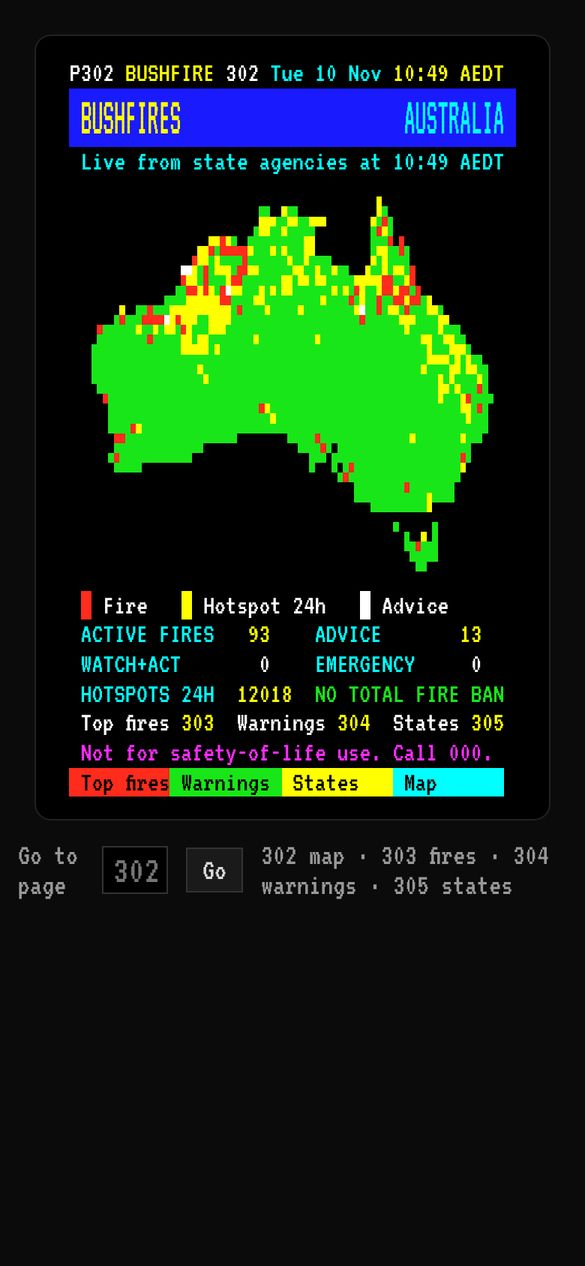
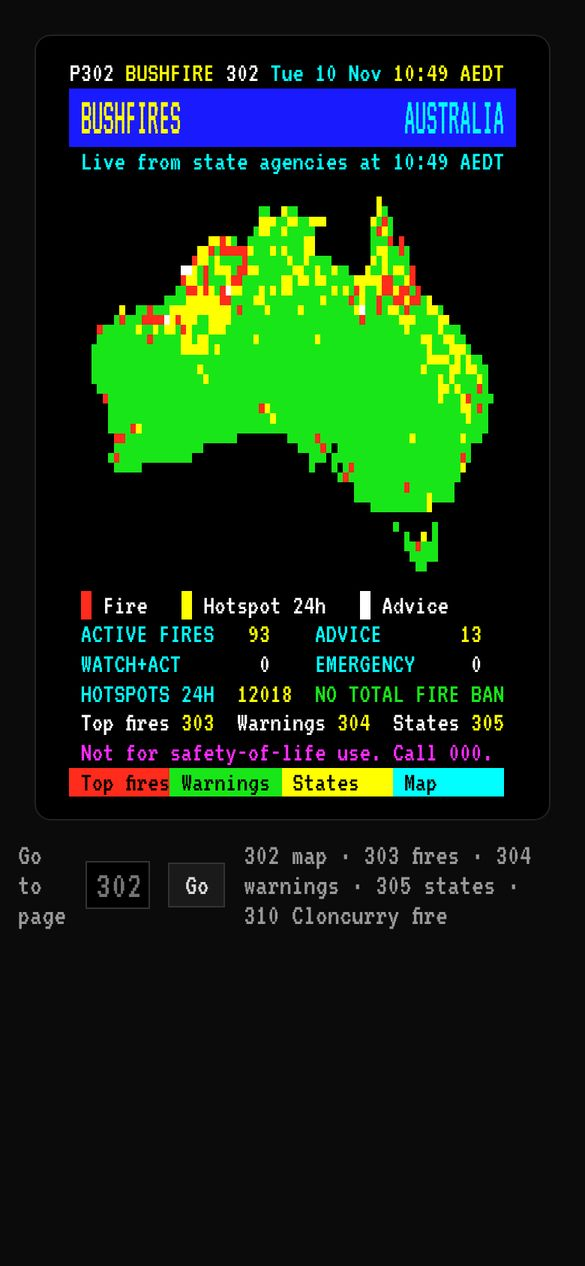
Design options: overview shows fire pages; refreshed screenshots and README
Claude-Session: https://claude.ai/code/session_01LusRAfVREdsNW6RjpzuqHr

Changed region(s): [[0.1538, 0.6469, 0.9231, 0.7393], [0.0308, 0.6469, 0.1231, 0.7393]]

diff --git a/design-options/index.html b/design-options/index.html
@@ -65,6 +65,8 @@ td a { font-weight: 600; }
 .opt-hd h2 { margin: 0; font: 600 clamp(26px, 3vw, 34px)/1.1 var(--serif); letter-spacing: -.01em; }
 .opt-hd .tags { display: flex; gap: 6px; flex-wrap: wrap; }
 .opt-hd .open { margin-left: auto; font-weight: 700; white-space: nowrap; }
+.opt-hd .open a { font-weight: 700; }
+.cap { margin: 14px 0 6px; font: 700 13px/1.2 var(--sans); letter-spacing: .08em; text-transform: uppercase; color: var(--fg-2); }
 .shots { display: grid; grid-template-columns: minmax(0, 1fr) 190px; gap: 14px; align-items: start; }
 .shots a { display: block; border: 1px solid var(--rule); background: var(--card); line-height: 0; }
 .shots a:hover { border-color: var(--accent); }
@@ -103,16 +105,16 @@ td a { font-weight: 600; }
   <h1>Ten directions for Bushfire Explorer</h1>
   <div class="intro">
     <div>
-      <p>Each option is a working homepage built on the same content as the live site: the map with its overlays, warning counts, the ranked fire list, current warnings and the state list. All figures are real, taken from a snapshot of the agency feeds at 10:44 am AEDT on Tuesday 10 November 2026.</p>
+      <p>Each option has two working pages built on the same content as the live site. The <b>homepage</b> has the map with its overlays, warning counts, the ranked fire list, current warnings and the states. The <b>fire page</b> shows one real fire, Cloncurry in Queensland, which has an Advice warning: the official warning text, map, crews, weather, smoke, fire danger, satellite hotspots and location. All figures come from a snapshot of the agency feeds at 10:44 am AEDT on Tuesday 10 November 2026.</p>
       <p>Six options keep today’s layout and change the type, colour and components. Four rearrange the page. Five are restrained enough to ship as they are; five are deliberately bolder. Each is shown in one colour mode; the one you choose gets its second mode next.</p>
     </div>
     <div class="how">
       <h2>How to review</h2>
       <ul>
-        <li>Open an option, then use the bar at the bottom left to step through the rest with ‹ and ›.</li>
-        <li>These work: the map’s Hotspots / Fire danger switch, paging the fire list, “Show all warnings”, the Atlas gazetteer and the Teletext page keys.</li>
+        <li>Open an option, then use the bar at the bottom left: <b>Home</b> and <b>Fire page</b> switch pages within the option; ‹ and › step to the same page in the next option.</li>
+        <li>These work: the homepage map’s Hotspots / Fire danger switch, paging the fire list, “Show all warnings”, links to the Cloncurry fire, the Atlas gazetteer, the Synoptic satellite switch and the Teletext page keys.</li>
         <li>Search boxes, filters and links are visual only.</li>
-        <li>Maps are drawn from embedded outlines rather than map tiles, so you can judge how each option styles the map. The production basemap each would use is noted below.</li>
+        <li>National maps are drawn from embedded outlines, and fire maps from a stitched basemap image, because this page can’t load live map tiles. Each option restyles them; the production basemap is noted below.</li>
       </ul>
     </div>
   </div>
@@ -139,11 +141,11 @@ td a { font-weight: 600; }
     <div class="grid">
       <div>
         <p><strong>What “not AI-generated” meant here.</strong> The competitor sites share a look: near-black ground, Inter-style type, glowing orange circles, rounded floating panels, emoji and pill badges. Every option here instead takes its form from a real Australian or public-information source: warning signage, topographic sheets, Bureau of Meteorology products, park signs, fire-appliance livery, print, atlases, transport boards and broadcast teletext. None uses Inter, glow effects or emoji.</p>
-        <p><strong>Not yet designed.</strong> State pages, the fire detail page, the sources dialog and the second colour mode. These follow once a direction is chosen.</p>
+        <p><strong>Not yet designed.</strong> State pages, the sources dialog, “Near me” and the second colour mode. These follow once a direction is chosen.</p>
       </div>
       <div>
-        <p><strong>Data.</strong> 186 incidents from the seven state and territory feeds (93 active, 28 under control, 65 planned burns), 13 Advice warnings, 12,018 satellite hotspots (maps show a 3,200-point sample) and today’s fire danger ratings for 139 districts. Collected by running bushfiremap.com’s own feed code.</p>
-        <p><strong>Files.</strong> Everything is in <code>design-options/</code> on the <code>claude/gallant-fermi-yu5hwi</code> branch. Each option is one HTML file using shared data and map helpers in <code>design-options/shared/</code>.</p>
+        <p><strong>Data.</strong> 186 incidents from the seven state and territory feeds (93 active, 28 under control, 65 planned burns), 13 Advice warnings, 12,018 satellite hotspots (maps show a 3,200-point sample) and today’s fire danger ratings for 139 districts. For Cloncurry: the Queensland Fire Department warning and incident record, Open-Meteo weather, CAMS smoke, Bureau of Meteorology fire danger, ABS and NVIS context, and 301 nearby hotspots. Collected by running bushfiremap.com’s own feed code.</p>
+        <p><strong>Files.</strong> Everything is in <code>design-options/</code> on the <code>claude/gallant-fermi-yu5hwi</code> branch. Each option is two HTML files (homepage and <code>-fire</code> page) sharing one stylesheet in <code>design-options/styles/</code>, with data and map helpers in <code>design-options/shared/</code>.</p>
       </div>
     </div>
   </section>
@@ -151,70 +153,70 @@ td a { font-weight: 600; }
 
 <script>
 const OPTIONS = [
-  { id: '01-public-notice', name: 'Public Notice', tone: 'Safe', layout: 'Reskin', mode: 'Light', type: 'Atkinson Hyperlegible Next',
+  { id: '01-public-notice', fire: 'The warning leads in the official Australian Warning System form, with the agency text under it. Status is three ruled steps.', name: 'Public Notice', tone: 'Safe', layout: 'Reskin', mode: 'Light', type: 'Atkinson Hyperlegible Next',
     pal: [['#0f1720', 'Ink'], ['#ffffff', 'Paper'], ['#ffd400', 'Advice'], ['#ff7f00', 'Watch and Act'], ['#d50032', 'Emergency'], ['#eff1f2', 'Panel']],
     concept: 'Uses the visual language Australians already learn from emergency information: Australian Warning System triangles and Fire Danger Rating colours, set in a typeface designed for readers with low vision.',
     why: ['A yellow “call Triple Zero (000)” strip sits above the masthead.', 'Warning levels are a ruled row of large numerals with the official triangles, not a row of cards.', 'Fire status is shown by shape (filled, half-filled, empty square), so it still works without colour.', 'States are a plain table with today’s highest fire danger rating.'],
     typeNote: '<b>Atkinson Hyperlegible Next</b> for everything. It was designed by the Braille Institute to keep similar letters (I, l, 1) distinct.',
     prod: 'Keep the current Esri Light Gray basemap. Dark mode inverts the ground and keeps the warning colours.',
     risk: 'Plain on purpose. It reads like a well-made government site, which may suit or may feel too official.' },
-  { id: '02-survey-sheet', name: 'Survey Sheet', tone: 'Safe', layout: 'Reskin', mode: 'Light', type: 'Barlow Semi Condensed, Source Serif 4 Italic',
+  { id: '02-survey-sheet', fire: 'Topographic basemap inside the neat line; the warning is set as the sheet’s marginal notes in two columns.', name: 'Survey Sheet', tone: 'Safe', layout: 'Reskin', mode: 'Light', type: 'Barlow Semi Condensed, Source Serif 4 Italic',
     pal: [['#1d1d1b', 'Ink'], ['#f8f8f4', 'Paper'], ['#dfe9cc', 'Vegetation'], ['#d2e4ef', 'Sea'], ['#2f6ea5', 'Water'], ['#d2321e', 'Red overprint']],
     concept: 'Laid out like a printed Geoscience Australia topographic map sheet: the title in the top margin, the map inside a neat line (the ruled frame around a printed map) with a graticule (latitude and longitude lines), a Reference column, and numbered map symbols keyed to an index table.',
     why: ['Every fire has a grid reference in degrees and minutes, e.g. Peckhams Rd at 29°09′S 152°32′E.', 'State boundaries are dash-dot lines, the coastline is blue, sea names are italic serif, as on printed maps.', 'An “Index to state sheets” mini-map replaces the state cards.', 'A scale bar and an edition date in the margin.'],
     typeNote: '<b>Barlow Semi Condensed</b> for labels and text, close to map lettering. <b>Source Serif 4 Italic</b> for water names and notes, following the cartographic convention.',
     prod: 'Pair with OpenTopoMap or Esri World Topographic tiles inside the same frame.',
     risk: 'Dense. The frame and margin column cost space on phones.' },
-  { id: '03-synoptic', name: 'Synoptic', tone: 'Safe', layout: 'Reskin', mode: 'Light', type: 'Sofia Sans, Sofia Sans Condensed, Red Hat Mono',
+  { id: '03-synoptic', fire: 'An observations strip, a 72-hour detection chart and a fire behaviour index chart; the forecast is a Bureau-style table.', name: 'Synoptic', tone: 'Safe', layout: 'Reskin', mode: 'Light', type: 'Sofia Sans, Sofia Sans Condensed, Red Hat Mono',
     pal: [['#0e2233', 'Navy ink'], ['#ffffff', 'Paper'], ['#dde7ef', 'Table band'], ['#1d5c99', 'Link blue'], ['#c62d1f', 'Fire red'], ['#e3a33b', 'Hotspot amber']],
     concept: 'Styled on Bureau of Meteorology data products: an issue line, observation tables with banded headers, small charts drawn to scale, and station-model symbols (the weather-map circle whose fill shows a value) where the fill shows how controlled a fire is.',
     why: ['A “hotspots by hour” chart shows the real satellite pass times in today’s data.', 'Warnings are grouped by state, like the Bureau’s warnings summary page.', 'Each state shows how its fire weather districts split across danger ratings.', 'Times use the Bureau’s day/time format, e.g. 10/8:38am.'],
     typeNote: '<b>Sofia Sans</b> for headings, <b>Sofia Sans Condensed</b> for tables, <b>Red Hat Mono</b> for figures and times.',
     prod: 'Esri Light Gray basemap. The summary row moves above the map; otherwise today’s layout.',
     risk: 'The most data-heavy option. Casual visitors may find it dry.' },
-  { id: '04-ranger', name: 'Ranger', tone: 'Bold', layout: 'Reskin', mode: 'Light', type: 'Overpass, Overpass Mono',
+  { id: '04-ranger', fire: 'A roadside Fire Danger Rating dial (the semicircle sign at park entrances), the warning as a park alert notice, and signs for crews and hotspots.', name: 'Ranger', tone: 'Bold', layout: 'Reskin', mode: 'Light', type: 'Overpass, Overpass Mono',
     pal: [['#4b3427', 'Sign brown'], ['#f2e8d1', 'Cream'], ['#34553b', 'Park green'], ['#c47a26', 'Ochre'], ['#e4e8df', 'Eucalypt grey'], ['#1f201c', 'Ink']],
     concept: 'National-park signage: brown routed-timber signs with a cream inset border and highway lettering, the map mounted on a timber noticeboard, and the states as fingerpost signs on a post.',
     why: ['A real sign component: brown panel, rounded corners, cream line inset from the edge.', 'The “By state” section is a fingerpost, with boards pointing either side of a post.', 'Warnings are yellow park alert notices.', 'Ranked fires appear on the map as small brown numbered signs.'],
     typeNote: '<b>Overpass</b>, an open-source typeface based on Highway Gothic, the lettering on road and park signs. <b>Overpass Mono</b> for sizes.',
     prod: 'A muted terrain basemap (Esri World Topographic, desaturated). Dark mode would be a dark-brown night version.',
     risk: 'Could feel like a theme park if pushed further. Brown is heavy in large areas.' },
-  { id: '05-hi-vis', name: 'Hi-Vis', tone: 'Bold', layout: 'Reskin', mode: 'Light', type: 'Big Shoulders Display, Libre Franklin',
+  { id: '05-hi-vis', fire: 'Only the warning block carries chevrons. Fire danger days are solid colour blocks with heavy numerals.', name: 'Hi-Vis', tone: 'Bold', layout: 'Reskin', mode: 'Light', type: 'Big Shoulders Display, Libre Franklin',
     pal: [['#111111', 'Black'], ['#ffd200', 'Signal yellow'], ['#d71920', 'Appliance red'], ['#ffffff', 'White'], ['#ececec', 'Grey']],
     concept: 'Fire-appliance livery: the Battenburg pattern (the yellow-and-red checks on emergency vehicles), rear chevrons on any count that is live, heavy condensed numerals, and fire status as solid colour blocks.',
     why: ['The chevron stripe appears only on warning counts above zero, so attention follows the data.', 'Rank numbers are set huge, like vehicle call numbers.', 'Statuses are solid blocks: red for out of control, yellow for being controlled.', 'The Battenburg band frames the masthead and the footer only.'],
     typeNote: '<b>Big Shoulders Display</b>, designed for City of Chicago signage, for headings and numbers. <b>Libre Franklin</b> for text.',
     prod: 'Esri Light Gray basemap. Dark mode is natural: the masthead is already black.',
     risk: 'Loud. Chevrons must stay reserved for real alerts or they become noise.' },
-  { id: '06-riso', name: 'Riso', tone: 'Bold', layout: 'Reskin', mode: 'Light', type: 'Archivo Expanded, Courier Prime',
+  { id: '06-riso', fire: 'The relief map is printed in blue ink with the warning area in orange halftone; the Advice level is rubber-stamped.', name: 'Riso', tone: 'Bold', layout: 'Reskin', mode: 'Light', type: 'Archivo Expanded, Courier Prime',
     pal: [['#2f4fa2', 'Riso Medium Blue'], ['#ff6c2f', 'Riso Orange'], ['#f0efe9', 'Paper'], ['#1f2a52', 'Text']],
     concept: 'A two-ink risograph print (a stencil printing process popular for zines): blue and fluorescent orange that multiply where they overlap, headings printed slightly out of register, halftone land on the map, paper grain and rubber-stamped warnings.',
     why: ['A plain-English summary sentence opens the page, written from the data.', 'Only two inks; every colour on the page is one ink, the other, or both overprinted.', 'Each state card carries its own silhouette with fires plotted.', 'Warning stamps sit at slightly different angles, as if stamped by hand.'],
     typeNote: '<b>Archivo</b> at its widest setting for headings and numbers. <b>Courier Prime</b> for labels and data.',
     prod: 'Tiles would be desaturated and tinted blue with a CSS filter, with fires multiplied on top. Dark mode is hard for a paper look; it would become a “blue paper” version.',
     risk: 'The playful print look may feel wrong during a major emergency.' },
-  { id: '07-atlas', name: 'Atlas', tone: 'Safe', layout: 'New layout', mode: 'Light', type: 'EB Garamond, Jost',
+  { id: '07-atlas', fire: 'A detail plate with its own tenth-of-a-degree grid, the warning as an atlas text page, and the forecast as an atlas climate table.', name: 'Atlas', tone: 'Safe', layout: 'New layout', mode: 'Light', type: 'EB Garamond, Jost',
     pal: [['#2b2a33', 'Ink'], ['#fdfdfb', 'Plate'], ['#d4e4ea', 'Sea'], ['#f4dcc7', 'WA tint'], ['#f2d3d7', 'Qld tint'], ['#d7e0f1', 'NSW tint'], ['#b3261e', 'Fire red']],
     concept: 'A reference-atlas plate. The map fills the page with soft political tints per state and a lettered and numbered grid in the margins. A gazetteer (an atlas index of places) lists every active fire alphabetically with its grid square. Statistics follow as notes and tables.',
     why: ['Grid squares (e.g. K6) tie every list back to the map.', 'Select a gazetteer entry and its fire is highlighted on the plate.', 'A legend cartouche and a scale bar computed from the map.', 'Numbers are set in a book serif with lining figures.'],
     typeNote: '<b>EB Garamond</b> for titles, place names and tables. <b>Jost</b>, a geometric sans in the Futura tradition, for labels.',
     prod: 'The plate stays at national scale; zooming in opens a tiled detail view.',
     risk: 'Grid references are a learned convention. The fixed national view needs a clear way into detail.' },
-  { id: '08-state-by-state', name: 'State by State', tone: 'Safe', layout: 'New layout', mode: 'Light', type: 'Schibsted Grotesk, Literata',
+  { id: '08-state-by-state', fire: 'Three same-scale mini-maps show how the hotspots moved over two days, followed by four equal day panels.', name: 'State by State', tone: 'Safe', layout: 'New layout', mode: 'Light', type: 'Schibsted Grotesk, Literata',
     pal: [['#16191b', 'Ink'], ['#f3f4f1', 'Page'], ['#ffffff', 'Panel'], ['#c4381a', 'Fire'], ['#e8953a', 'Hotspot'], ['#ffe46b', 'Highlight']],
     concept: 'Small multiples (a grid of identically built small charts). Australia has no national fire feed; each state publishes its own. So the page leads with eight equal state panels, each with its own map, counts, danger rating and top fires, under a one-sentence national summary.',
     why: ['The headline is a sentence written from the data, not a row of tiles.', 'Panels are ordered by active fires; each mini-map has its own scale bar.', 'The Northern Territory panel explains why it shows hotspots only.', 'The full table and warnings sit side by side below.'],
     typeNote: '<b>Literata</b> for the summary sentence. <b>Schibsted Grotesk</b>, made for a Norwegian news publisher, for everything else.',
     prod: 'National map on Esri Light Gray tiles; panel maps stay as vector outlines (fast, no tiles needed).',
     risk: 'The most conventional of the ten. Panels need equal heights as data changes.' },
-  { id: '09-departures', name: 'Departures', tone: 'Bold', layout: 'New layout', mode: 'Dark', type: 'Barlow Condensed, Barlow',
+  { id: '09-departures', fire: 'The fire as a flap-board detail screen; the warning text runs on an amber message sign.', name: 'Departures', tone: 'Bold', layout: 'New layout', mode: 'Dark', type: 'Barlow Condensed, Barlow',
     pal: [['#0e0f11', 'Ground'], ['#17191c', 'Board'], ['#2a2d31', 'Flap'], ['#f2efe6', 'Characters'], ['#f2b200', 'Signage yellow'], ['#ff6b4a', 'Out of control'], ['#7fc97f', 'Under control']],
     concept: 'The ranked fire list as a split-flap departures board (the mechanical boards in airports and stations): one flap per character, status in coloured text, warnings as a yellow flap. The flaps settle once when the page loads.',
     why: ['A wayfinding header with a pictogram and a flap clock.', 'Counters, warnings and states are all flap boards, so the metaphor holds across the page.', 'Long names are truncated as real boards do.', 'One animation on load and none after, which respects reduced-motion settings.'],
     typeNote: '<b>Barlow Condensed</b> for the flaps and labels, <b>Barlow</b> for text.',
     prod: 'Esri Dark Gray basemap. A light mode would keep the board dark and lighten the page around it.',
     risk: 'Truncated names need a tap for detail. The flap effect must stay a one-off.' },
-  { id: '10-teletext', name: 'Teletext', tone: 'Bold', layout: 'New layout', mode: 'Dark', type: 'VT323',
+  { id: '10-teletext', fire: 'Pages 310 to 313: a summary with a local mosaic map, the warning across subpages, conditions and location.', name: 'Teletext', tone: 'Bold', layout: 'New layout', mode: 'Dark', type: 'VT323',
     pal: [['#000000', 'Black'], ['#ff2b1c', 'Red'], ['#19e619', 'Green'], ['#ffff00', 'Yellow'], ['#1a1aff', 'Blue'], ['#ff2bff', 'Magenta'], ['#00ffff', 'Cyan'], ['#ffffff', 'White']],
     concept: 'Teletext pages (the text service broadcast on TV from the 1970s to the 2010s): a 40 × 25 character grid, eight colours, double-height banners, a mosaic map built from 2 × 3 block cells, numbered pages and the four coloured Fastext keys.',
     why: ['The mosaic map plots the real fires and hotspots.', 'Pages 302 to 305 work: use the coloured keys or type a page number.', 'The grid scales to fit a phone at 40 columns.', 'Strict palette: eight colours, no gradients, no shadows.'],
@@ -225,13 +227,13 @@ const OPTIONS = [
 const esc = (s) => String(s).replace(/[&<>"]/g, (c) => ({ '&': '&amp;', '<': '&lt;', '>': '&gt;', '"': '&quot;' }[c]));
 document.getElementById('ov').innerHTML = OPTIONS.map((o, i) => `<tr><td class="num">${String(i + 1).padStart(2, '0')}</td><td><a href="${o.id}.html">${o.name}</a></td><td><span class="tag${o.tone === 'Bold' ? ' bold' : ''}">${o.tone}</span></td><td>${o.layout}</td><td class="hide-s">${o.mode}</td><td class="hide-s">${o.type}</td><td><span class="sw" aria-hidden="true">${o.pal.slice(0, 6).map((p) => `<i style="background:${p[0]}"></i>`).join('')}</span></td></tr>`).join('');
 document.getElementById('options').innerHTML = OPTIONS.map((o, i) => `<section class="opt wrap" id="${o.id}" aria-labelledby="h-${o.id}">
-  <div class="opt-hd"><span class="no">${String(i + 1).padStart(2, '0')}</span><h2 id="h-${o.id}">${o.name}</h2><span class="tags"><span class="tag${o.tone === 'Bold' ? ' bold' : ''}">${o.tone}</span><span class="tag">${o.layout}</span><span class="tag">${o.mode}</span></span><a class="open" href="${o.id}.html">Open ${o.name} →</a></div>
-  <div class="shots">
-    <a href="${o.id}.html" aria-label="Open ${o.name}, desktop view"><img src="shots/${o.id}-desktop.jpg" width="1600" height="1000" alt="${o.name} homepage at desktop width" ${i > 1 ? 'loading="lazy"' : ''}></a>
-    <a href="${o.id}.html" class="ph" aria-label="Open ${o.name}, phone view"><img src="shots/${o.id}-phone.jpg" width="585" height="1266" alt="${o.name} homepage at phone width" ${i > 1 ? 'loading="lazy"' : ''}></a>
-  </div>
+  <div class="opt-hd"><span class="no">${String(i + 1).padStart(2, '0')}</span><h2 id="h-${o.id}">${o.name}</h2><span class="tags"><span class="tag${o.tone === 'Bold' ? ' bold' : ''}">${o.tone}</span><span class="tag">${o.layout}</span><span class="tag">${o.mode}</span></span><span class="open"><a href="${o.id}.html">Homepage →</a> &nbsp; <a href="${o.id}-fire.html">Fire page →</a></span></div>
+  ${['', '-fire'].map((sfx) => `<p class="cap">${sfx ? 'Fire page: Cloncurry, Queensland' : 'Homepage'}</p><div class="shots">
+    <a href="${o.id}${sfx}.html" aria-label="Open ${o.name} ${sfx ? 'fire page' : 'homepage'}, desktop view"><img src="shots/${o.id}${sfx}-desktop.jpg" width="1600" height="1000" alt="${o.name} ${sfx ? 'fire page' : 'homepage'} at desktop width" ${i > 1 || sfx ? 'loading="lazy"' : ''}></a>
+    <a href="${o.id}${sfx}.html" class="ph" aria-label="Open ${o.name} ${sfx ? 'fire page' : 'homepage'}, phone view"><img src="shots/${o.id}${sfx}-phone.jpg" width="585" height="1266" alt="${o.name} ${sfx ? 'fire page' : 'homepage'} at phone width" ${i > 1 || sfx ? 'loading="lazy"' : ''}></a>
+  </div>`).join('')}
   <div class="cols">
-    <div><h3>Idea</h3><p>${o.concept}</p><h3>Choices that make it specific</h3><ul>${o.why.map((w) => `<li>${w}</li>`).join('')}</ul></div>
+    <div><h3>Idea</h3><p>${o.concept}</p><h3>Choices that make it specific</h3><ul>${o.why.map((w) => `<li>${w}</li>`).join('')}</ul><h3 style="margin-top:12px">Fire page</h3><p>${o.fire}</p></div>
     <div><h3>Type</h3><p class="type">${o.typeNote}</p><h3>Colour</h3><div class="pal">${o.pal.map((p) => `<span><i style="background:${p[0]}"></i>${p[1]} <span class="num">${p[0]}</span></span>`).join('')}</div></div>
     <div><h3>In production</h3><p>${o.prod}</p><h3>Risk</h3><p>${o.risk}</p></div>
   </div>

diff --git a/design-options/README.md b/design-options/README.md
@@ -1,8 +1,8 @@
 # Design options
 
-Ten alternative designs for the bushfiremap.com homepage, for review. Open `index.html` for the overview, or any numbered file directly.
+Ten alternative designs for bushfiremap.com, for review. Each option has a homepage (`NN-name.html`) and a fire detail page (`NN-name-fire.html`, showing the Cloncurry fire in Queensland). Open `index.html` for the overview.
 
-Each option is a working page built from a snapshot of the live agency feeds (10:44 am AEDT, Tuesday 10 November 2026), collected by running the site's own feed code. Maps are drawn from embedded outlines (Natural Earth) instead of map tiles.
+Each option is a working page built from a snapshot of the live agency feeds (10:44 am AEDT, Tuesday 10 November 2026), collected by running the site's own feed code. National maps are drawn from embedded outlines (Natural Earth); fire maps use a stitched Esri basemap image (`shared/fire/`), because the review page can't load live tiles.
 
 | File | Option | Tone | Layout | Mode |
 | --- | --- | --- | --- | --- |
@@ -17,7 +17,7 @@ Each option is a working page built from a snapshot of the live agency feeds (10
 | `09-departures.html` | Departures | Bold | New layout | Dark |
 | `10-teletext.html` | Teletext | Bold | New layout | Dark |
 
-`shared/` holds the data snapshot (`data.js`, `danger.js`), outlines (`geo.js`), the map and formatting helpers (`kit.js`) and the review bar (`nav.js`). `shots/` holds the screenshots used on the overview page.
+`styles/` holds one stylesheet per option, shared by its two pages. `shared/` holds the data snapshot (`data.js`, `danger.js`, `fire.js`), outlines (`geo.js`), fire basemaps (`fire/`), the map and formatting helpers (`kit.js`), the Teletext page engine (`teletext.js`) and the review bar (`nav.js`). `shots/` holds the screenshots used on the overview page.
 
 ## View locally
 
